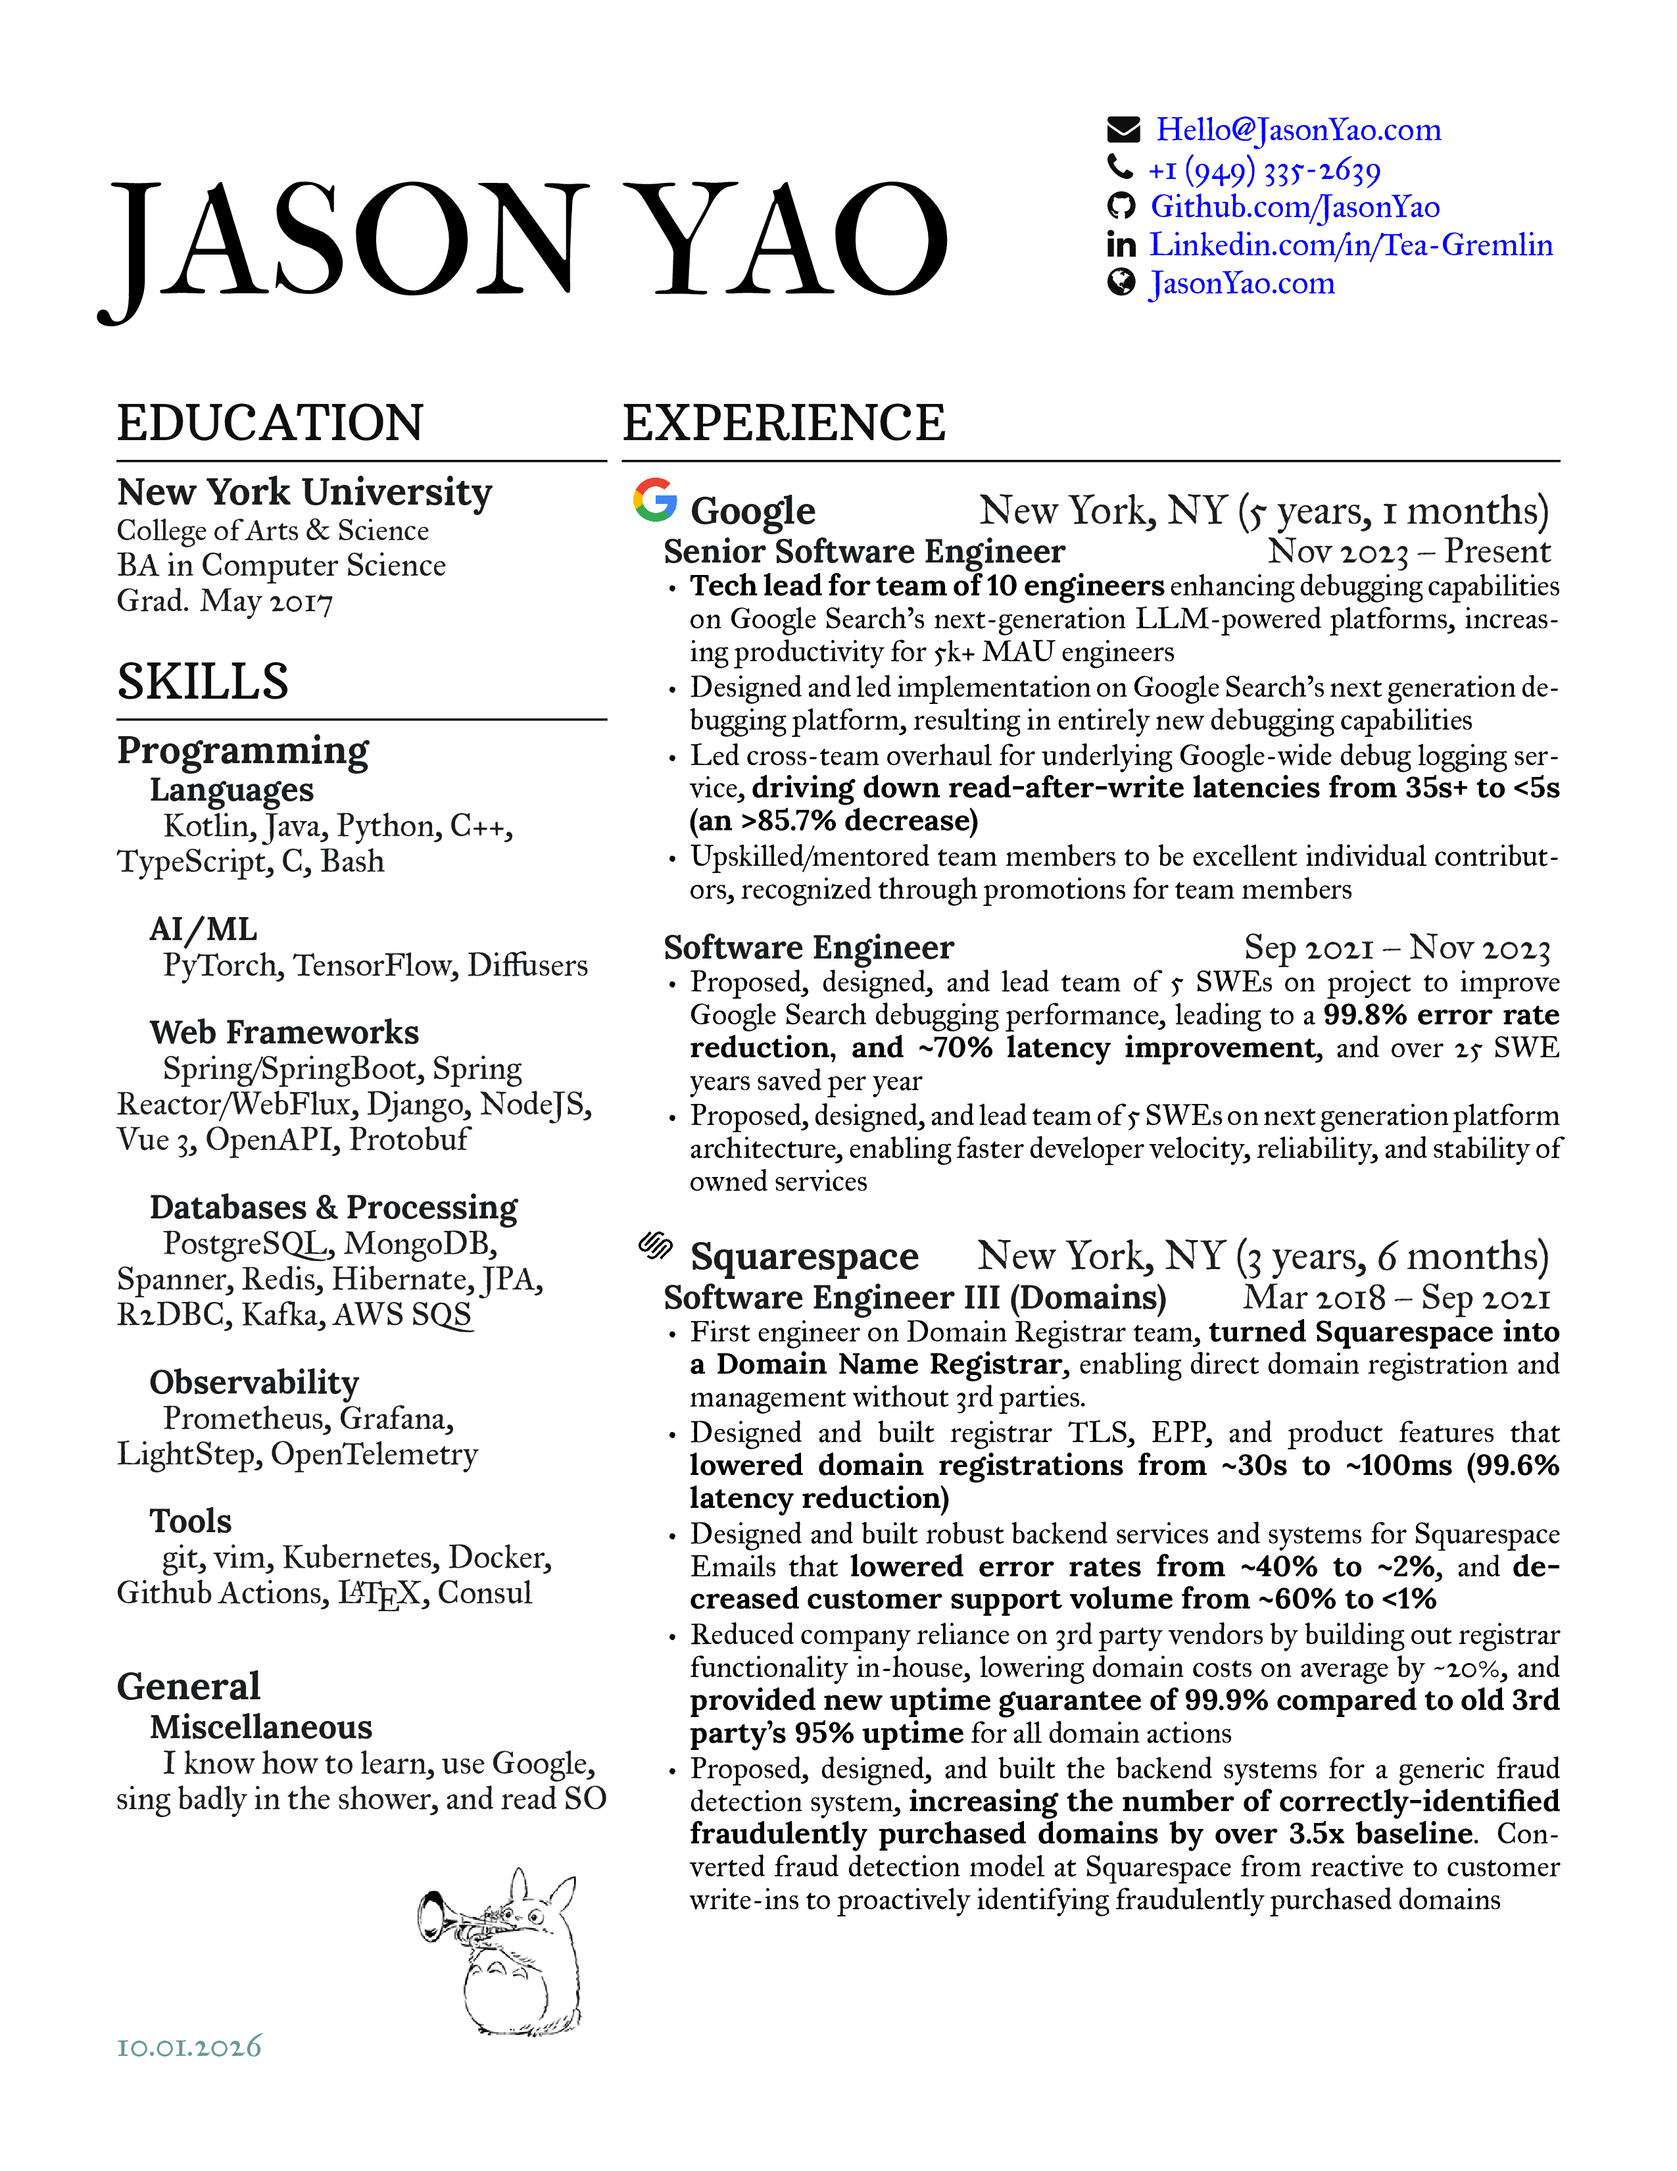
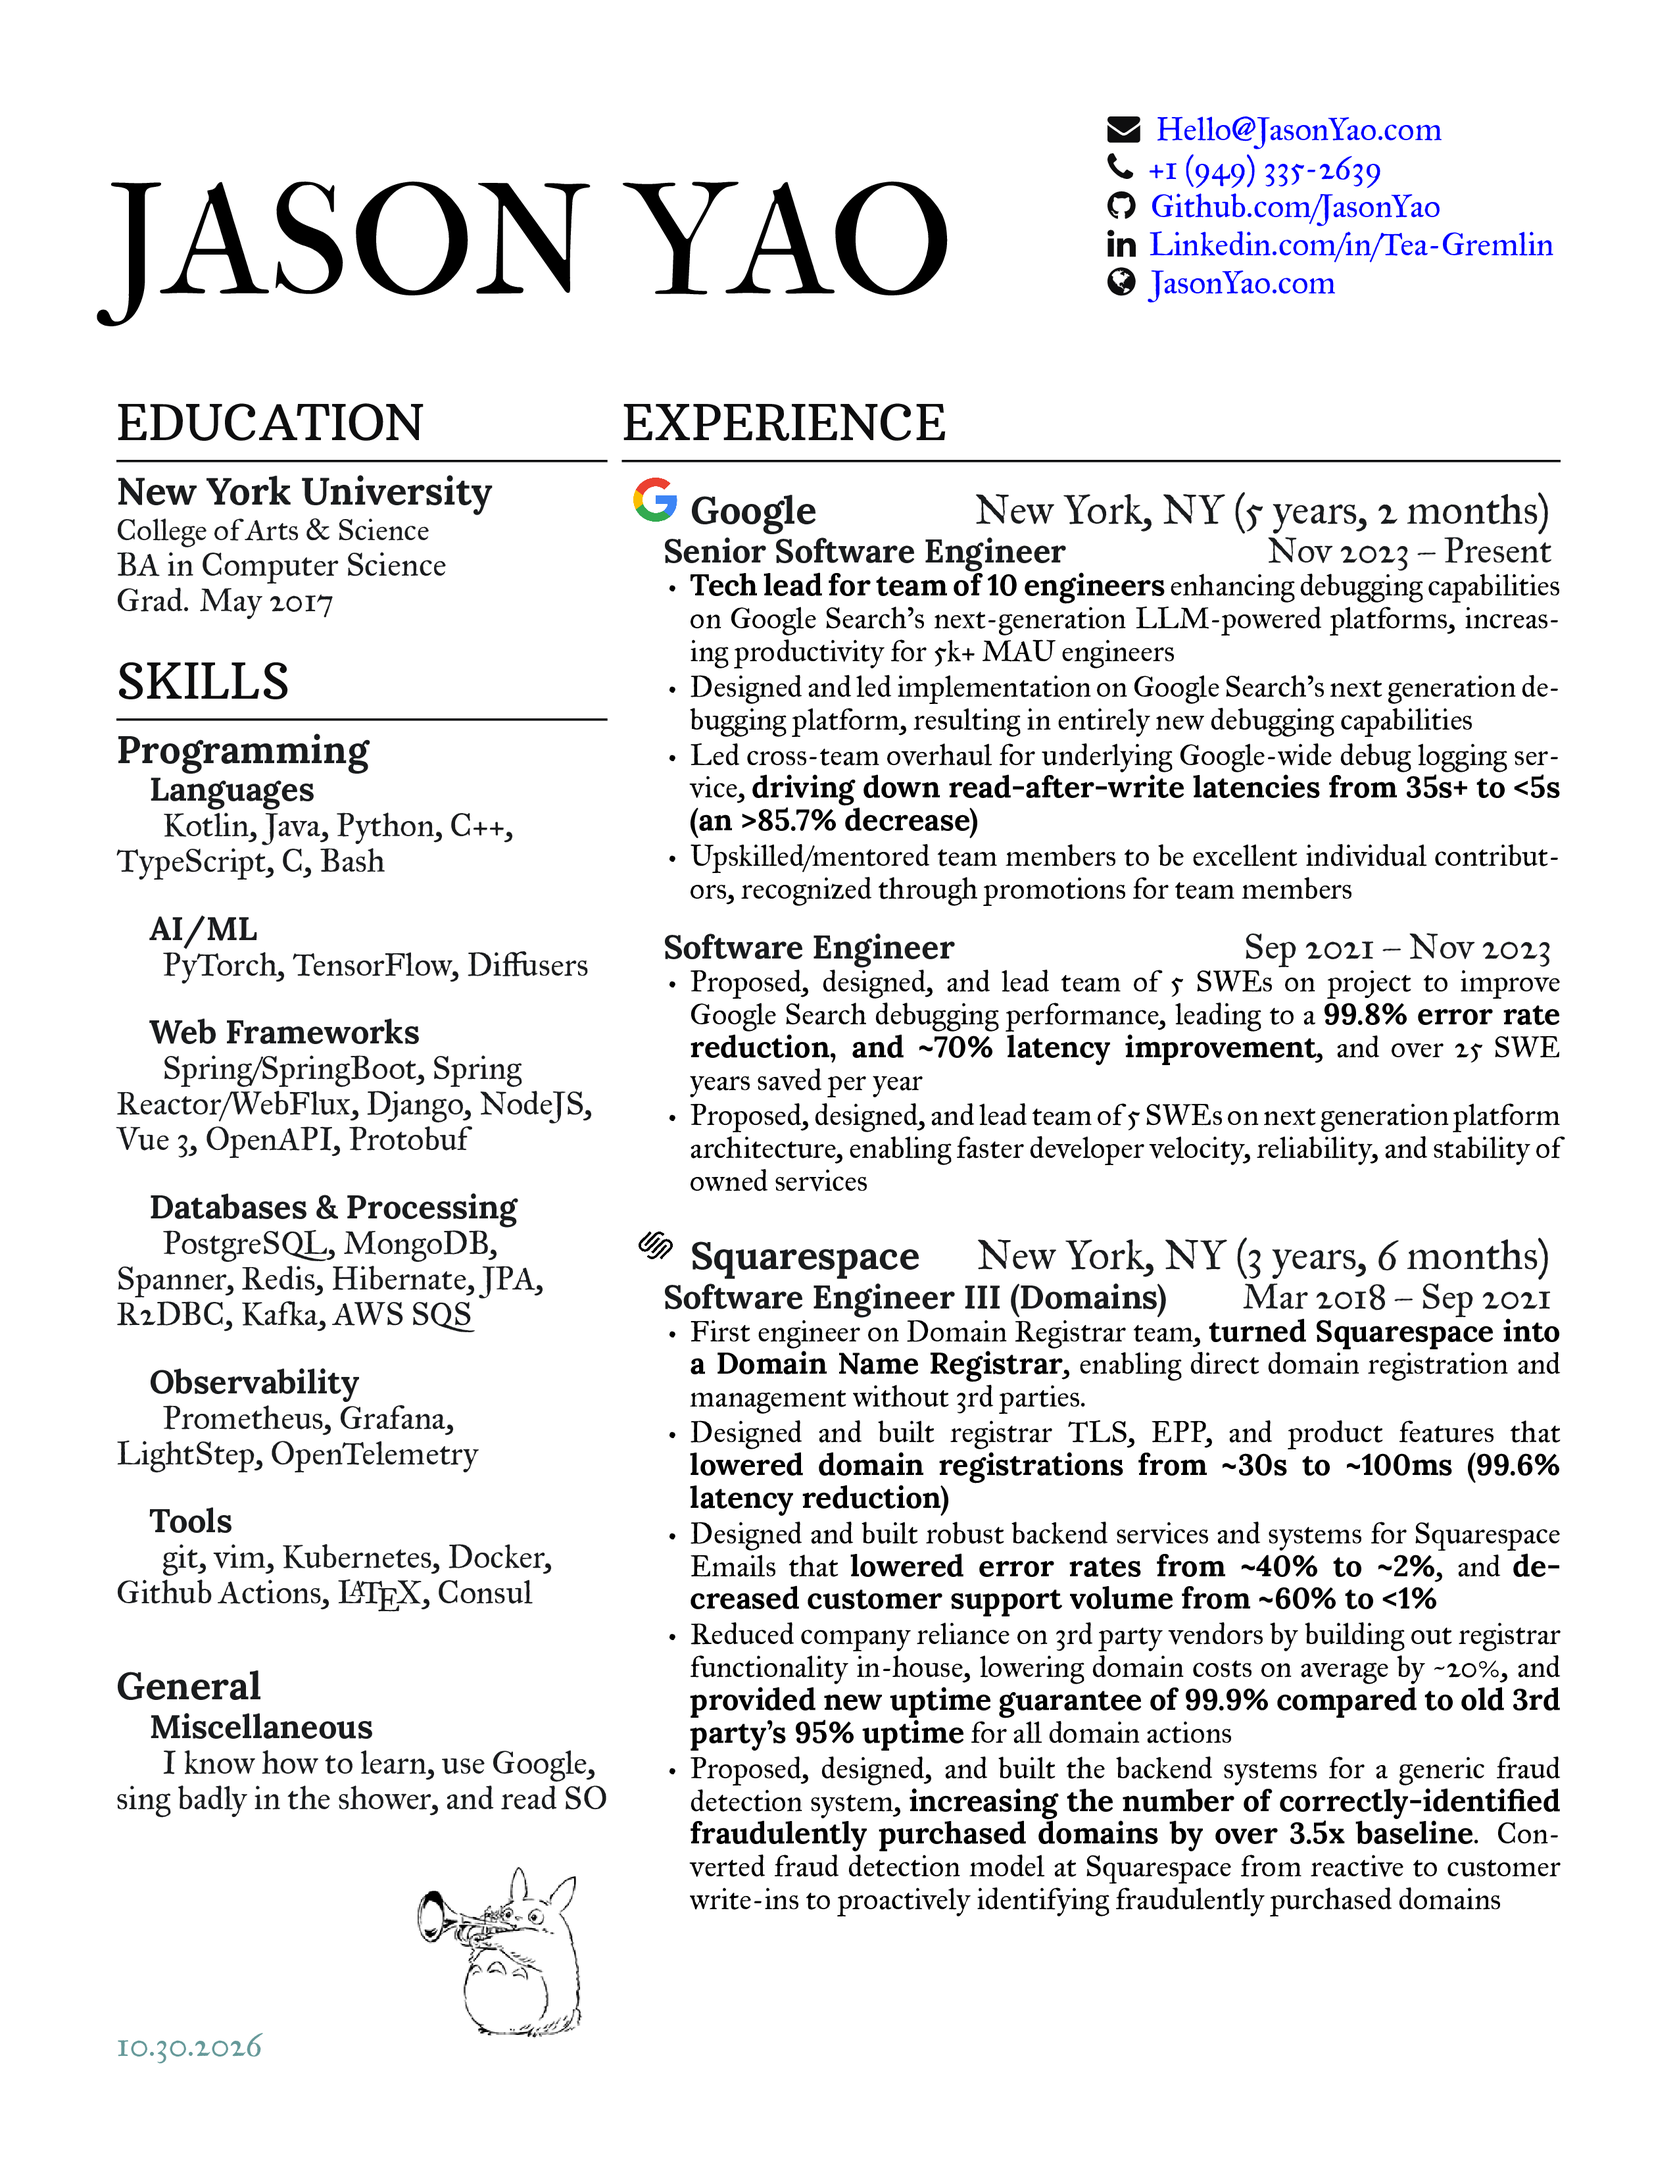
[Build] 19aea7cfe2177d7151b1b52fb1a4bd93b26d8ea0

Changed region(s): [[0.5886, 0.2185, 0.8365, 0.2497]]

diff --git a/Resume_Jason_Yao.tex b/Resume_Jason_Yao.tex
@@ -155,7 +155,7 @@ I know how to learn, use Google, sing badly in the shower, and read SO
 %
 \section{Experience}
 
-    \workplace{logos/short/google}{Google}{New York, NY}{5 years, 1 months}
+    \workplace{logos/short/google}{Google}{New York, NY}{5 years, 2 months}
             \position{Senior Software Engineer}{Nov 2023 – Present}
         \vspace{\topsep} % Hacky fix for awkward extra vertical space
         \begin{tightemize}

diff --git a/README.md b/README.md
@@ -1,4 +1,5 @@
 # Resume | Jason Yao
+
 [![Build Status](https://github.com/JasonYao/resume/actions/workflows/main.yml/badge.svg)](https://github.com/JasonYao/resume/actions/workflows/main.yml)
 
 > Imagine what I could do if I wasn't doing this
@@ -7,17 +8,20 @@ The following respo contains all the code required in automatically
 generating, distributing, and service-ifying my resume data.
 
 ## Link to Resume
+
 To see the pdf version of this resume, please click the image below:
 [![Even this thumbnail is automatically generated](https://www.jasonyao.com/resume/Resume_Jason_Yao.png)
 ](https://www.jasonyao.com/resume/Resume_Jason_Yao.pdf)
 
 ## Resume Data API
+
 I'm a big fan of data-driven architectures, so even my resume data is
 in a machine and human readable form through the following commands below.
 
 ### JSON-LD Schema.org JSON Payload
-* This data payload format is a [JSON-LD schema.org markup](https://jsonld.com/person/) for metadata 
-     content data
+
+* This data payload format is a [JSON-LD schema.org markup](https://jsonld.com/person/) for metadata
+  content data
 * The data payload can be found [here](https://www.jasonyao.com/resume/json-schema.json), and
   can be accessed over curl with:
 
@@ -27,16 +31,19 @@ curl https://www.jasonyao.com/resume/json-schema.json | jq '.'
 ```
 
 ### JSON Data
+
 * This data payload format is a more complete and human-readable version of the resume data
   in JSON form, without having any of the metadata annotations from the JSON-LD version
 * The data payload can be found [here](https://www.jasonyao.com/resume/raw-data.json), and
   can be accessed over curl with:
+
 ```sh
 # The jq just adds in some pretty-formatting, feel free to omit if you don't want it
 curl https://www.jasonyao.com/resume/raw-data.json | jq '.'
 ```
 
 ### Raw Biography Data
+
 * This is just a raw text file with the latest version of my linkedin bio
 * The raw biography text can be found [here](https://www.jasonyao.com/resume/biography.txt), and
   can be accessed over curl with:
@@ -46,6 +53,7 @@ curl https://www.jasonyao.com/resume/biography.txt
 ```
 
 ## Pipeline Overview
+
 ![look at all the pwetty lines](docs/img/resume_system_design.svg)
 
 1. We use Python 3 for pre-processing and templating of data
@@ -56,18 +64,25 @@ curl https://www.jasonyao.com/resume/biography.txt
    system-wide fonts.
 
 ## Install (macOS)
-```sh
-# Installs pdf generation dependencies
-brew cask install mactex
 
-# Install the FontAwesome font by double clicking on it
-
-# [OPTIONAL] Installs a good pdf viewer and IDE
-brew cask install texmaker
-```
+- [ ] Install pdf generation dependencies
+    - Run `brew install --cask mactex`
+- [ ] Install fonts on MacOS by clicking on the font
+  files in the `fonts` directory
+- [ ] Install imagemagick so that bin/build can
+  generate thumbnails locally correctly
+    - Run `brew install imagemagick`
+- [ ] Installs a local python `.venv`
+    - Run `uv venv --python 3.14.4`
+- [ ] Installs all python dependencies
+    - Run `uv sync`
+- [ ] (Optional) Installs a good pdf viewer and IDE
+    - Run `brew install --cask texmaker`
 
 ## Usage
+
 To generate the pdf from the command-line:
+
 ```sh
 bin/build
 # OR
@@ -75,7 +90,9 @@ xelatex Resume_Jason_Yao.tex
 ```
 
 ## Testing
+
 To run the automated tests:
+
 ```sh
 bin/test
 # OR
@@ -83,29 +100,35 @@ pytest
 ```
 
 ## Local GitHub Actions Debugging
+
 By using the [act](https://github.com/nektos/act) library, we can execute the GitHub Actions CI/CD workflow
 locally, enabling us to quickly debug if any issues arise.
 
 Install by running:
+
 ```sh
 brew install act
 ```
 
 List detected workflows from repository root by running:
+
 ```sh
 act -l
 ```
 
 Dry-run by running:
+
 ```sh
 act -n
 ```
 
 Actually execute by running:
+
 ```sh
 act
 ```
 
 ## License
+
 This repo is licensed under the terms of the MIT license,
 a copy of which may be found [here](LICENSE)
